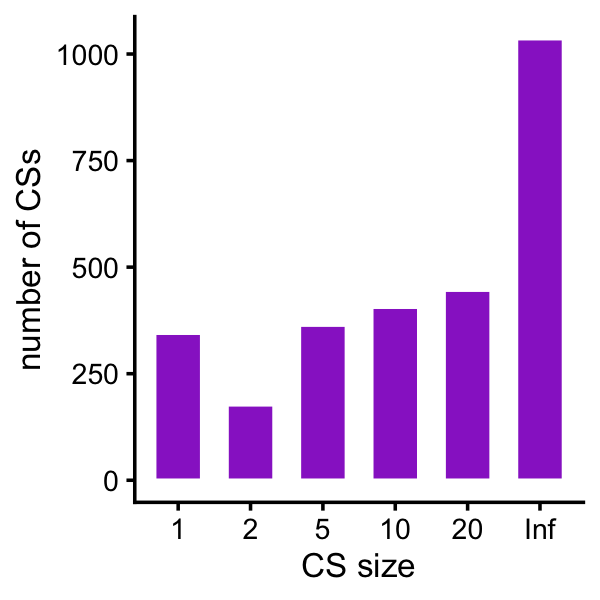
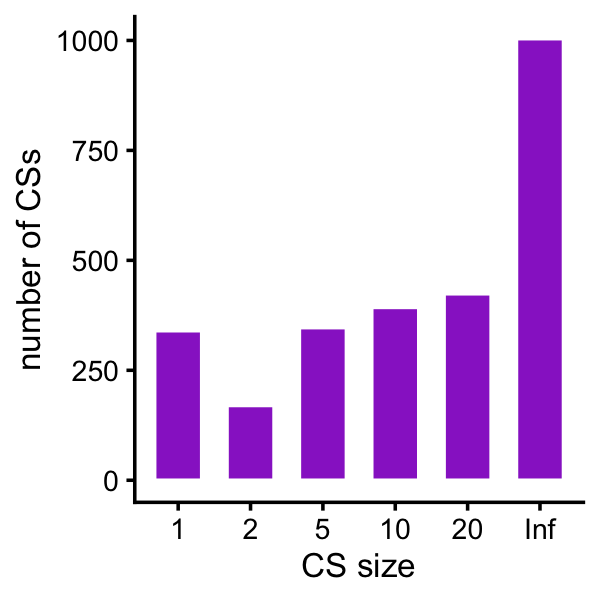
Switched to using the 'cs_coverage_0.95_min_corr' column in the rosmap_rnaseq_protein analysis.

diff --git a/docs/rosmap_rnaseq_protein.html b/docs/rosmap_rnaseq_protein.html
@@ -302,7 +302,7 @@ class="glyphicon glyphicon-ok text-success" aria-hidden="true"></span>
 <div class="tab-content">
 <div id="summary" class="tab-pane fade in active">
 <p>
-<strong>Last updated:</strong> 2025-05-06
+<strong>Last updated:</strong> 2025-05-12
 </p>
 <p>
 <strong>Checks:</strong> <span
@@ -434,15 +434,15 @@ project makes it easier to run your code on other machines.</p>
 <div class="panel panel-default">
 <div class="panel-heading">
 <p class="panel-title">
-<a data-toggle="collapse" data-parent="#workflowr-checks" href="#strongRepositoryversionstrongahrefhttpsgithubcomstephenslabfsusieexperimentstree0f1725a8b6b497329fbcca59f1349372aed38874targetblank0f1725aa">
+<a data-toggle="collapse" data-parent="#workflowr-checks" href="#strongRepositoryversionstrongahrefhttpsgithubcomstephenslabfsusieexperimentstree6c1c7c1d55c2369094679016727910cdf9819e0etargetblank6c1c7c1a">
 <span class="glyphicon glyphicon-ok text-success"
 aria-hidden="true"></span> <strong>Repository version:</strong>
-<a href="https://github.com/stephenslab/fsusie-experiments/tree/0f1725a8b6b497329fbcca59f1349372aed38874" target="_blank">0f1725a</a>
+<a href="https://github.com/stephenslab/fsusie-experiments/tree/6c1c7c1d55c2369094679016727910cdf9819e0e" target="_blank">6c1c7c1</a>
 </a>
 </p>
 </div>
 <div
[2 lines of base64/hex data omitted]
 class="panel-collapse collapse">
 <div class="panel-body">
 <p>
@@ -452,7 +452,7 @@ reproducibility.
 </p>
 <p>
 The results in this page were generated with repository version
-<a href="https://github.com/stephenslab/fsusie-experiments/tree/0f1725a8b6b497329fbcca59f1349372aed38874" target="_blank">0f1725a</a>.
+<a href="https://github.com/stephenslab/fsusie-experiments/tree/6c1c7c1d55c2369094679016727910cdf9819e0e" target="_blank">6c1c7c1</a>.
 See the <em>Past versions</em> tab to see a history of the changes made
 to the R Markdown and HTML files.
 </p>
@@ -467,9 +467,9 @@ were generated:
 </p>
 <pre><code>
 Untracked files:
+    Untracked:  analysis/cs_sizes_protein.pdf
+    Untracked:  analysis/cs_sizes_rnaseq.pdf
     Untracked:  analysis/rosmap_overview_cache/
-    Untracked:  analysis/temp.R
-    Untracked:  data/ROSMAP_NIA_WGS.leftnorm.bcftools_qc.plink_qc.afreq.gz
     Untracked:  data/afreq.RData
     Untracked:  data/analysis_result/Fungen_xQTL.ENSG00000163808.cis_results_db.export.rds
     Untracked:  data/analysis_result/ROSMAP_haQTL.chr3_43915257_48413435.fsusie_mixture_normal_top_pc_weights.rds
@@ -537,6 +537,40 @@ Message
 </tr>
 </thead>
 <tbody>
+<tr>
+<td>
+Rmd
+</td>
+<td>
+<a href="https://github.com/stephenslab/fsusie-experiments/blob/6c1c7c1d55c2369094679016727910cdf9819e0e/analysis/rosmap_rnaseq_protein.Rmd" target="_blank">6c1c7c1</a>
+</td>
+<td>
+Peter Carbonetto
+</td>
+<td>
+2025-05-12
+</td>
+<td>
+workflowr::wflow_publish("rosmap_rnaseq_protein.Rmd", verbose = TRUE)
+</td>
+</tr>
+<tr>
+<td>
+html
+</td>
+<td>
+<a href="https://rawcdn.githack.com/stephenslab/fsusie-experiments/4300655e23283e0666784b8cce0d2d3ce964384d/docs/rosmap_rnaseq_protein.html" target="_blank">4300655</a>
+</td>
+<td>
+Peter Carbonetto
+</td>
+<td>
+2025-05-06
+</td>
+<td>
+Ran wflow_publish("rosmap_rnaseq_protein.Rmd").
+</td>
+</tr>
 <tr>
 <td>
 Rmd
@@ -747,19 +781,22 @@ library(cowplot)</code></pre>
                 sep = &quot;\t&quot;,header = TRUE,stringsAsFactors = FALSE)
 class(rnaseq) &lt;- &quot;data.frame&quot;
 rnaseq &lt;- rnaseq[c(&quot;gene&quot;,&quot;variant_id&quot;,&quot;chr&quot;,&quot;pos&quot;,&quot;ref&quot;,&quot;alt&quot;,&quot;maf&quot;,
-                   &quot;pip&quot;,&quot;cs_coverage_0.95&quot;,&quot;context&quot;)]
+                   &quot;pip&quot;,&quot;cs_coverage_0.95_min_corr&quot;,&quot;context&quot;)]
 rnaseq &lt;-
   transform(rnaseq,
             gene = factor(gene),
             chr = factor(chr),
             ref = factor(ref),
             alt = factor(alt),
-            cs_coverage_0.95 = factor(cs_coverage_0.95),
+            cs_coverage_0.95_min_corr = factor(cs_coverage_0.95_min_corr),
             context = factor(context))
 rnaseq &lt;- subset(rnaseq,context == &quot;DLPFC_DeJager_eQTL&quot;)
 </code></pre>
+<p>Note that, as discussed, we are using the “cs_coverage_0.95_min_corr”
+results, which applies a purity filter of 0.8 to the 95% CSs (the naming
+of this column does not make that clear).</p>
 <p>Remove RNA expression SNPs (eSNPs) with MAF &lt; 5%:</p>
-<pre class="r"><code>gene_cs &lt;- with(rnaseq,paste(gene,cs_coverage_0.95,sep = &quot;_&quot;))
+<pre class="r"><code>gene_cs &lt;- with(rnaseq,paste(gene,cs_coverage_0.95_min_corr,sep = &quot;_&quot;))
 gene_cs &lt;- factor(gene_cs)
 maf_cs  &lt;- tapply(rnaseq,gene_cs,function (x) x$maf[which.max(x$pip)])
 keep_cs &lt;- names(which(maf_cs &gt;= 0.05))
@@ -767,7 +804,7 @@ rows    &lt;- is.element(gene_cs,keep_cs)
 rnaseq  &lt;- rnaseq[rows,]</code></pre>
 <p>Plot a histogram of the CS sizes for the RNA-seq fine-mapping:</p>
 <pre class="r"><code>bins &lt;- c(0,1,2,5,10,20,Inf)
-gene_cs &lt;- with(rnaseq,paste(gene,cs_coverage_0.95,sep = &quot;_&quot;))
+gene_cs &lt;- with(rnaseq,paste(gene,cs_coverage_0.95_min_corr,sep = &quot;_&quot;))
 gene_cs &lt;- factor(gene_cs)
 cs_size &lt;- as.numeric(table(gene_cs))
 cs_size &lt;- cut(cs_size,bins)
@@ -801,6 +838,17 @@ Date
 </tr>
 </thead>
 <tbody>
+<tr>
+<td>
+<a href="https://github.com/stephenslab/fsusie-experiments/blob/4300655e23283e0666784b8cce0d2d3ce964384d/docs/figure/rosmap_rnaseq_protein.Rmd/cs-sizes-rnaseq-1.png" target="_blank">4300655</a>
+</td>
+<td>
+Peter Carbonetto
+</td>
+<td>
+2025-05-06
+</td>
+</tr>
 <tr>
 <td>
 <a href="https://github.com/stephenslab/fsusie-experiments/blob/aec2431da8f36ca9318e238716137972315ac15f/docs/figure/rosmap_rnaseq_protein.Rmd/cs-sizes-rnaseq-1.png" target="_blank">aec2431</a>
@@ -853,24 +901,24 @@ Peter Carbonetto
 <pre class="r"><code>table(cs_size)
 # cs_size
 #    1    2    5   10   20  Inf 
-# 1435  829 1541 1584 1941 4104</code></pre>
+# 1420  802 1487 1531 1849 4044</code></pre>
 <p>Load the protein fine-mapping results:</p>
 <pre class="r"><code>protein &lt;- fread(&quot;../outputs/ROSMAP_DLPFC_pQTL.cs_only.tsv.gz&quot;,
                 sep = &quot;\t&quot;,header = TRUE,stringsAsFactors = FALSE)
 class(protein) &lt;- &quot;data.frame&quot;
 protein &lt;- protein[c(&quot;gene&quot;,&quot;variant_id&quot;,&quot;chr&quot;,&quot;pos&quot;,&quot;ref&quot;,&quot;alt&quot;,&quot;maf&quot;,
-                     &quot;pip&quot;,&quot;cs_coverage_0.95&quot;,&quot;context&quot;)]
+                     &quot;pip&quot;,&quot;cs_coverage_0.95_min_corr&quot;,&quot;context&quot;)]
 protein &lt;-
   transform(protein,
             gene = factor(gene),
             chr = factor(chr),
             ref = factor(ref),
             alt = factor(alt),
-            cs_coverage_0.95 = factor(cs_coverage_0.95),
+            cs_coverage_0.95_min_corr = factor(cs_coverage_0.95_min_corr),
             context = factor(context))
 protein &lt;- subset(protein,context == &quot;DLPFC_Bennett_pQTL&quot;)</code></pre>
 <p>Remove SNPs with MAF &lt; 7.5%:</p>
-<pre class="r"><code>gene_cs &lt;- with(protein,paste(gene,cs_coverage_0.95,sep = &quot;_&quot;))
+<pre class="r"><code>gene_cs &lt;- with(protein,paste(gene,cs_coverage_0.95_min_corr,sep = &quot;_&quot;))
 gene_cs &lt;- factor(gene_cs)
 maf_cs  &lt;- tapply(protein,gene_cs,function (x) x$maf[which.max(x$pip)])
 keep_cs &lt;- names(which(maf_cs &gt;= 0.05))
@@ -879,7 +927,7 @@ protein &lt;- protein[rows,]</code></pre>
 <p>(Note that 7.5% to achieve a similar minor allele count threshold
 with the RNA-seq, methylation and H3K27ac data.)</p>
 <p>Plot a histogram of the CS sizes for the proteomics fine-mapping:</p>
-<pre class="r"><code>gene_cs &lt;- with(protein,paste(gene,cs_coverage_0.95,sep = &quot;_&quot;))
+<pre class="r"><code>gene_cs &lt;- with(protein,paste(gene,cs_coverage_0.95_min_corr,sep = &quot;_&quot;))
 gene_cs &lt;- factor(gene_cs)
 cs_size &lt;- as.numeric(table(gene_cs))
 cs_size &lt;- cut(cs_size,bins)
@@ -915,6 +963,17 @@ Date
 <tbody>
 <tr>
 <td>
+<a href="https://github.com/stephenslab/fsusie-experiments/blob/4300655e23283e0666784b8cce0d2d3ce964384d/docs/figure/rosmap_rnaseq_protein.Rmd/cs-sizes-protein-1.png" target="_blank">4300655</a>
+</td>
+<td>
+Peter Carbonetto
+</td>
+<td>
+2025-05-06
+</td>
+</tr>
+<tr>
+<td>
 <a href="https://github.com/stephenslab/fsusie-experiments/blob/aec2431da8f36ca9318e238716137972315ac15f/docs/figure/rosmap_rnaseq_protein.Rmd/cs-sizes-protein-1.png" target="_blank">aec2431</a>
 </td>
 <td>
@@ -943,7 +1002,7 @@ Peter Carbonetto
 <pre class="r"><code>table(cs_size)
 # cs_size
 #    1    2    5   10   20  Inf 
-#  345  177  364  406  446 1036</code></pre>
+#  340  170  347  393  424 1004</code></pre>
 <br>
 <p>
 <button type="button" class="btn btn-default btn-workflowr btn-workflowr-sessioninfo" data-toggle="collapse" data-target="#workflowr-sessioninfo" style="display: block;">
